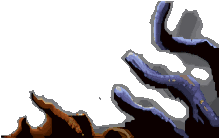
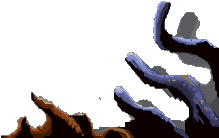
remaster wirt scene

diff --git a/source/Burntime.Remaster/Scenes/RestaurantScene.cs b/source/Burntime.Remaster/Scenes/RestaurantScene.cs
@@ -171,6 +171,15 @@ namespace Burntime.Remaster.Scenes
                 ani.Background.Animation.Progressive = false;
                 Windows += ani;
             }
+            else
+            {
+                ani = new Image(app);
+                ani.Position = new Vector2(202, 51);
+                ani.Background = "wirt.ani??p";
+                //ani.Background.Animation.Speed = 6.5f;
+                ani.Background.Animation.Progressive = false;
+                Windows += ani;
+            }
 
             eatLastAmount = -1;
             grid.Clear();

diff --git a/source/Burntime.BurnGfx/BurnGfxData.cs b/source/Burntime.BurnGfx/BurnGfxData.cs
@@ -59,7 +59,7 @@ namespace Burntime.Data.BurnGfx
                 case "pub1.ani":
                     return colorTables["pub1.pac"];
                 case "koch.ani":
-                    return colorTables["koch.pac"];
+                    return colorTables["opti.pac"];
                 case "arzt.ani":
                     return colorTables["arzt.pac"];
                 case "intro2.ani":
